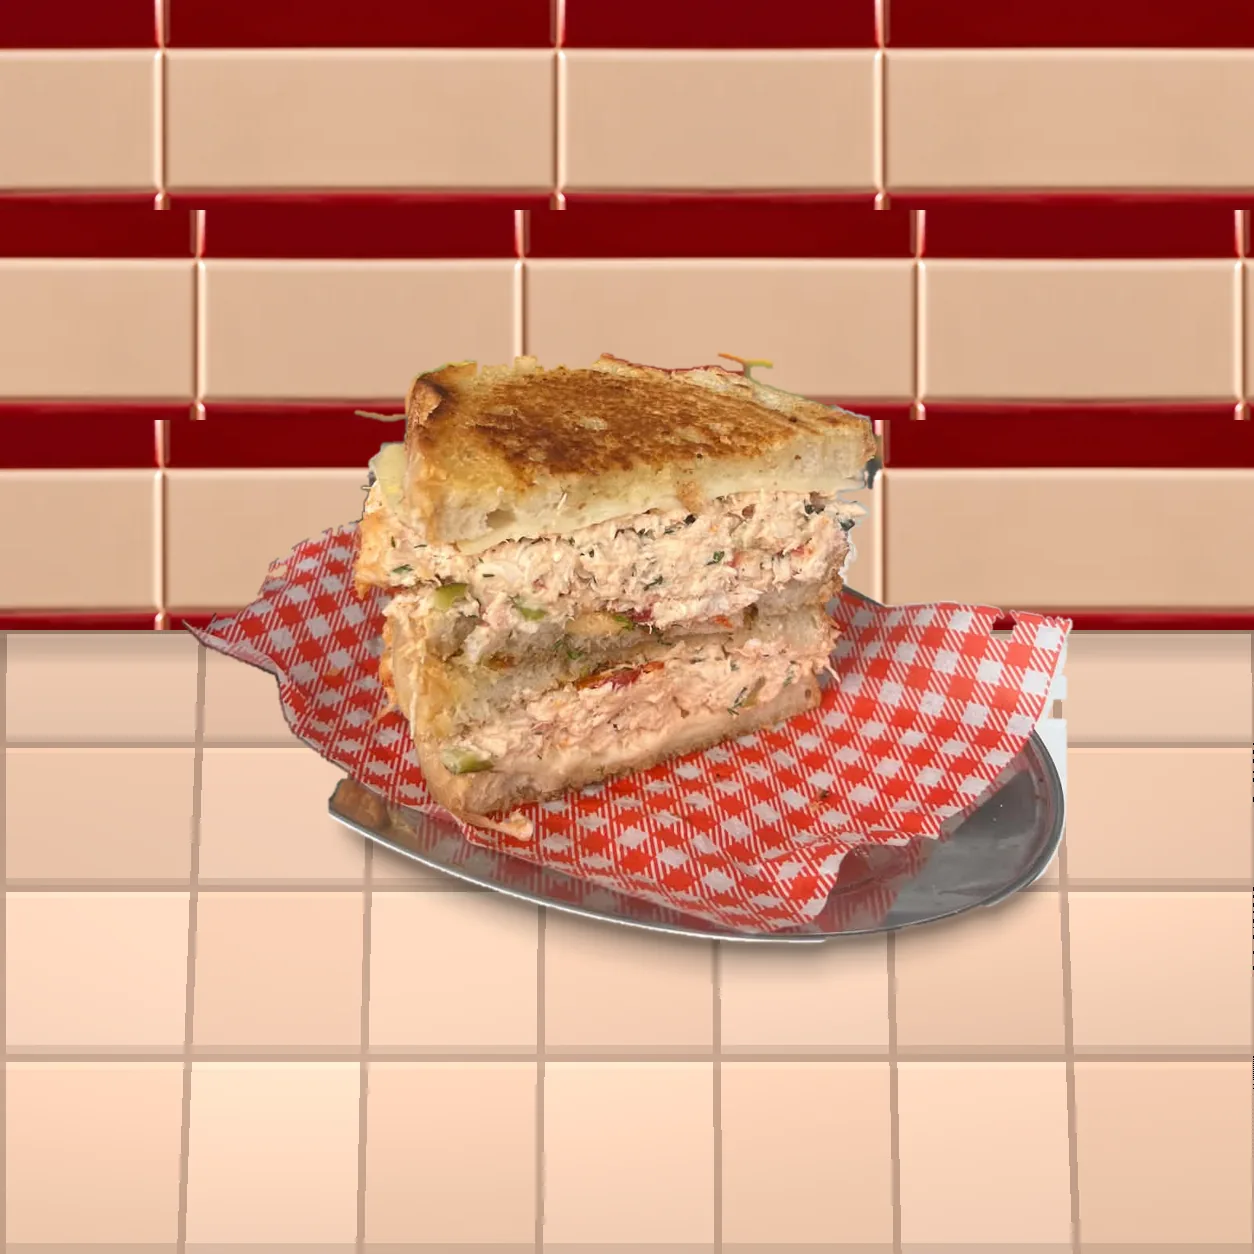
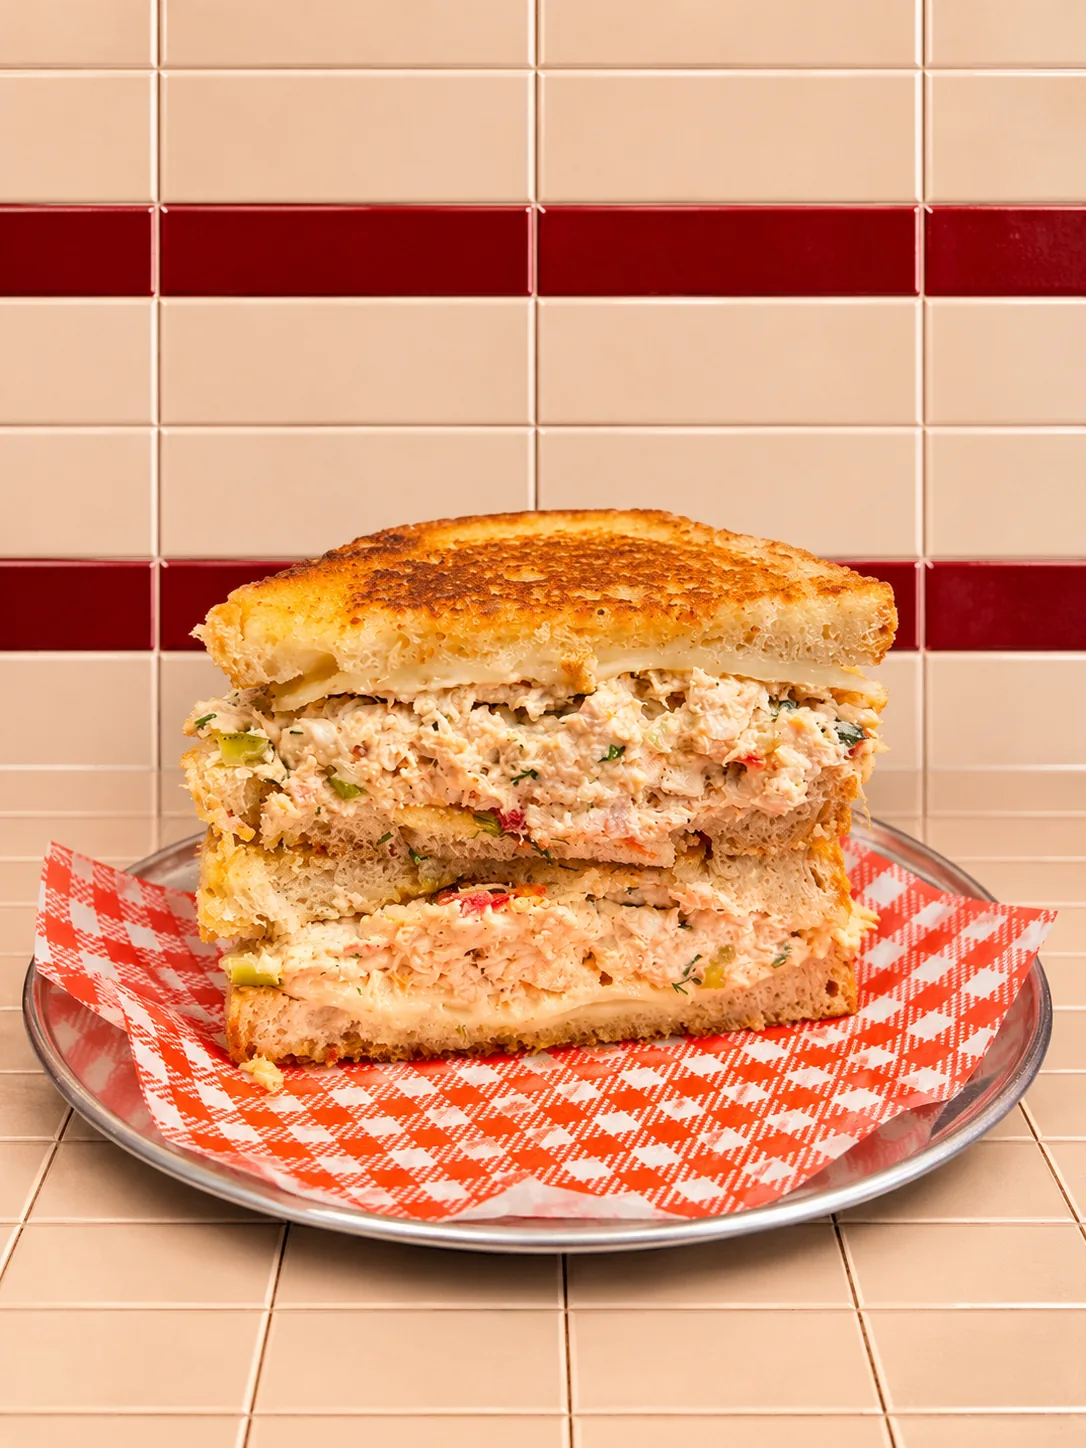
Replace sandwiches 2–6 and 8 with the finished portrait photos.
The WebP files keep the supplied pixels. Card cropping sits low enough that the plate rim stays in frame. Number 1, the tuna melt, and Number 9 are unchanged.

diff --git a/menu/index.html b/menu/index.html
@@ -251,30 +251,30 @@
                             <div class="mt-4 space-y-1 text-xs font-condensed tracking-widest text-stone-400"><div>+ Pesto $1.5</div></div>
                         </article>
                         <article class="group bg-white p-8 rounded-[3rem] shadow-sm border border-stone-100 hover:shadow-xl hover:-translate-y-1 transition-all duration-500">
-                            <div class="h-48 bg-stone-100 rounded-[2rem] mb-6 overflow-hidden"><img src="../img/menu/number-2.webp" alt="Number 2 sandwich with prosciutto, truffle ricotta, rocket, roasted peppers, fior di latte and balsamic glaze" class="w-full h-full object-cover"></div>
+                            <div class="h-48 bg-stone-100 rounded-[2rem] mb-6 overflow-hidden"><img src="../img/menu/number-2.webp" alt="Number 2 sandwich with prosciutto, truffle ricotta, rocket, roasted peppers, fior di latte and balsamic glaze" class="w-full h-full object-cover" style="object-position:center 73%"></div>
                             <div class="flex justify-between items-start mb-2 gap-3"><h3 class="text-xl font-semibold">Number #2</h3><span class="font-condensed burgundy-text text-xl tracking-wide whitespace-nowrap">$17.50</span></div>
                             <p class="text-stone-500 text-sm font-light leading-relaxed">Prosciutto, Truffle Ricotta, Rocket, Roasted Peppers, Fior di Latte and Balsamic Glaze.</p>
                             <div class="mt-4 space-y-1 text-xs font-condensed tracking-widest text-stone-400"><div>+ Salami $3.59</div><div>+ Truffle Salami $5</div></div>
                         </article>
                         <article class="group bg-white p-8 rounded-[3rem] shadow-sm border border-stone-100 hover:shadow-xl hover:-translate-y-1 transition-all duration-500">
-                            <div class="h-48 bg-stone-100 rounded-[2rem] mb-6 overflow-hidden"><img src="../img/menu/number-3.webp" alt="Number 3 vegetarian sandwich with pesto, tomato, stracciatella, basil, pistachio, honey and roasted peppers" class="w-full h-full object-cover"></div>
+                            <div class="h-48 bg-stone-100 rounded-[2rem] mb-6 overflow-hidden"><img src="../img/menu/number-3.webp" alt="Number 3 vegetarian sandwich with pesto, tomato, stracciatella, basil, pistachio, honey and roasted peppers" class="w-full h-full object-cover" style="object-position:center 73%"></div>
                             <div class="flex justify-between items-start mb-2 gap-3"><h3 class="text-xl font-semibold">Number #3 <span class="ml-1 align-middle text-[10px] font-condensed tracking-widest burgundy-text border border-[#7A2E3B] rounded-full px-2 py-1">VG</span></h3><span class="font-condensed burgundy-text text-xl tracking-wide whitespace-nowrap">$16.00</span></div>
                             <p class="text-stone-500 text-sm font-light leading-relaxed">Pesto, Tomato, Stracciatella, Basil, Pistachio, Honey and Roasted Peppers.</p>
                             <div class="mt-4 space-y-1 text-xs font-condensed tracking-widest text-stone-400"><div>+ Salami, Mortadella, Prosciutto $3.5</div></div>
                         </article>
                         <article class="group bg-white p-8 rounded-[3rem] shadow-sm border border-stone-100 hover:shadow-xl hover:-translate-y-1 transition-all duration-500">
-                            <div class="h-48 bg-stone-100 rounded-[2rem] mb-6 overflow-hidden"><img src="../img/menu/number-4.webp" alt="Number 4 chicken schnitzel sandwich with prosciutto, pesto, shaved parmesan, tomato, rocket and roasted peppers" class="w-full h-full object-cover"></div>
+                            <div class="h-48 bg-stone-100 rounded-[2rem] mb-6 overflow-hidden"><img src="../img/menu/number-4.webp" alt="Number 4 chicken schnitzel sandwich with prosciutto, pesto, shaved parmesan, tomato, rocket and roasted peppers" class="w-full h-full object-cover" style="object-position:center 73%"></div>
                             <div class="flex justify-between items-start mb-2 gap-3"><h3 class="text-xl font-semibold">Number #4</h3><span class="font-condensed burgundy-text text-xl tracking-wide whitespace-nowrap">$17.50</span></div>
                             <p class="text-stone-500 text-sm font-light leading-relaxed">Chicken Schnitzel, Prosciutto, Pesto, Shaved Parmesan, Tomato, Rocket and Roasted Peppers.</p>
                             <div class="mt-4 space-y-1 text-xs font-condensed tracking-widest text-stone-400"><div>+ Stracciatella $1.5</div></div>
                         </article>
                         <article class="group bg-white p-8 rounded-[3rem] shadow-sm border border-stone-100 hover:shadow-xl hover:-translate-y-1 transition-all duration-500">
-                            <div class="h-48 bg-stone-100 rounded-[2rem] mb-6 overflow-hidden"><img src="../img/menu/number-5.webp" alt="Number 5 grilled mortadella sandwich with fried egg, provolone, fried shallot, garlic butter and honey mustard" class="w-full h-full object-cover"></div>
+                            <div class="h-48 bg-stone-100 rounded-[2rem] mb-6 overflow-hidden"><img src="../img/menu/number-5.webp" alt="Number 5 grilled mortadella sandwich with fried egg, provolone, fried shallot, garlic butter and honey mustard" class="w-full h-full object-cover" style="object-position:center 73%"></div>
                             <div class="flex justify-between items-start mb-2 gap-3"><h3 class="text-xl font-semibold">Number #5</h3><span class="font-condensed burgundy-text text-xl tracking-wide whitespace-nowrap">$18.00</span></div>
                             <p class="text-stone-500 text-sm font-light leading-relaxed">Grilled Mortadella, Fried Egg, Provolone, Fried Shallot, Garlic Butter and Honey Mustard.</p>
                         </article>
                         <article class="group bg-white p-8 rounded-[3rem] shadow-sm border border-stone-100 hover:shadow-xl hover:-translate-y-1 transition-all duration-500">
-                            <div class="h-48 bg-stone-100 rounded-[2rem] mb-6 overflow-hidden"><img src="../img/menu/number-6.webp" alt="Number 6 grilled corned beef sandwich with American cheese, pickles, bang bang sauce and sauerkraut on sourdough" class="w-full h-full object-cover"></div>
+                            <div class="h-48 bg-stone-100 rounded-[2rem] mb-6 overflow-hidden"><img src="../img/menu/number-6.webp" alt="Number 6 grilled corned beef sandwich with American cheese, pickles, bang bang sauce and sauerkraut on sourdough" class="w-full h-full object-cover" style="object-position:center 73%"></div>
                             <div class="flex justify-between items-start mb-2 gap-3"><h3 class="text-xl font-semibold">Number #6</h3><span class="font-condensed burgundy-text text-xl tracking-wide whitespace-nowrap">$17.50</span></div>
                             <p class="text-stone-500 text-sm font-light leading-relaxed">Grilled Corned Beef, American Cheese, Honey Mustard Mayo, Pickles, Bang Bang Sauce and Sauerkraut on Sourdough.</p>
                         </article>
@@ -284,7 +284,7 @@
                             <p class="text-stone-500 text-sm font-light leading-relaxed">Tuna Melt - Tuna Salad and Melted Cheese on Sourdough.</p>
                         </article>
                         <article class="group bg-white p-8 rounded-[3rem] shadow-sm border border-stone-100 hover:shadow-xl hover:-translate-y-1 transition-all duration-500">
-                            <div class="h-48 bg-stone-100 rounded-[2rem] mb-6 overflow-hidden"><img src="../img/menu/number-8.webp" alt="Number 8 chicken melt with chicken salad and melted cheese on sourdough" class="w-full h-full object-cover"></div>
+                            <div class="h-48 bg-stone-100 rounded-[2rem] mb-6 overflow-hidden"><img src="../img/menu/number-8.webp" alt="Number 8 chicken melt with chicken salad and melted cheese on sourdough" class="w-full h-full object-cover" style="object-position:center 75%"></div>
                             <div class="flex justify-between items-start mb-2 gap-3"><h3 class="text-xl font-semibold">Number #8</h3><span class="font-condensed burgundy-text text-xl tracking-wide whitespace-nowrap">$17.00</span></div>
                             <p class="text-stone-500 text-sm font-light leading-relaxed">Chicken Melt - Chicken Salad and Melted Cheese on Sourdough.</p>
                         </article>
